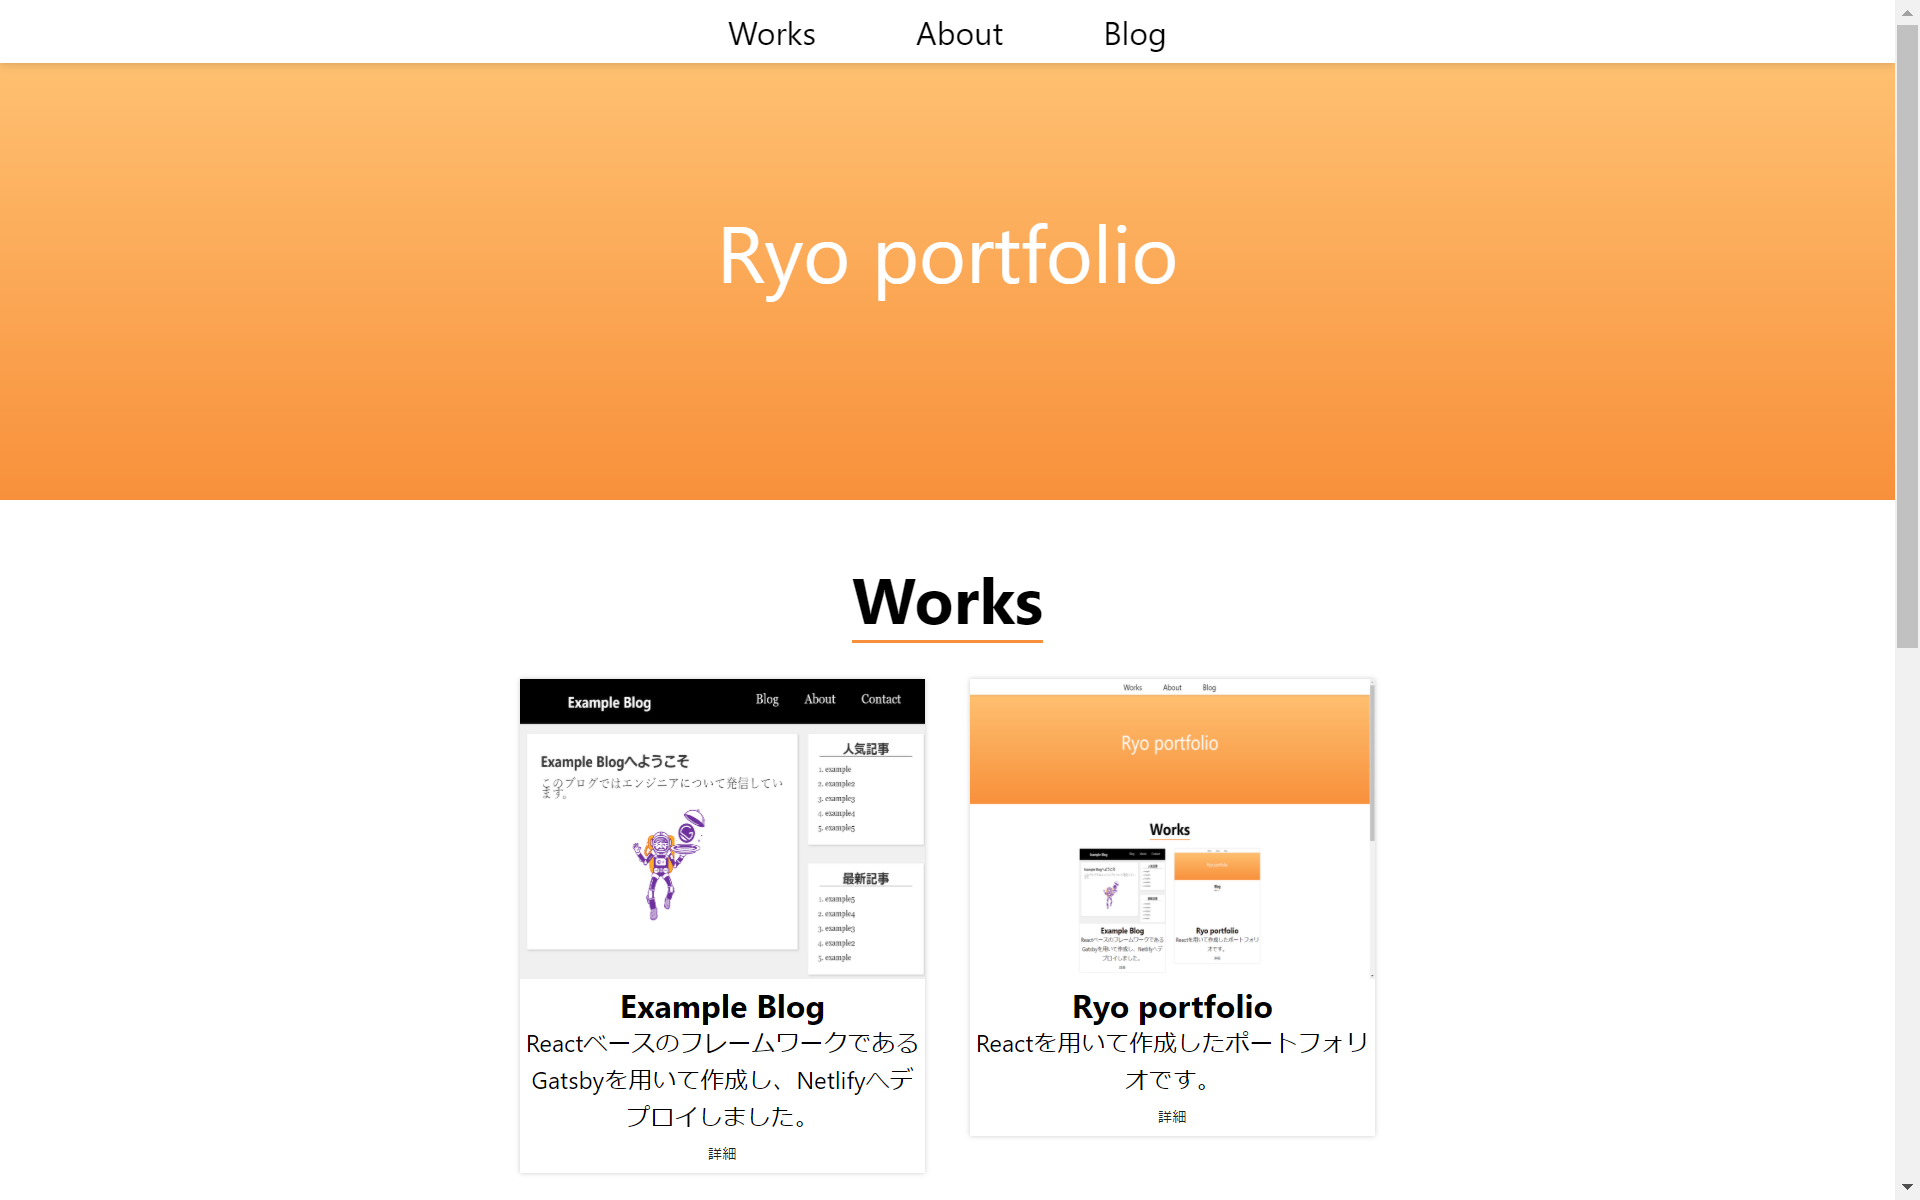
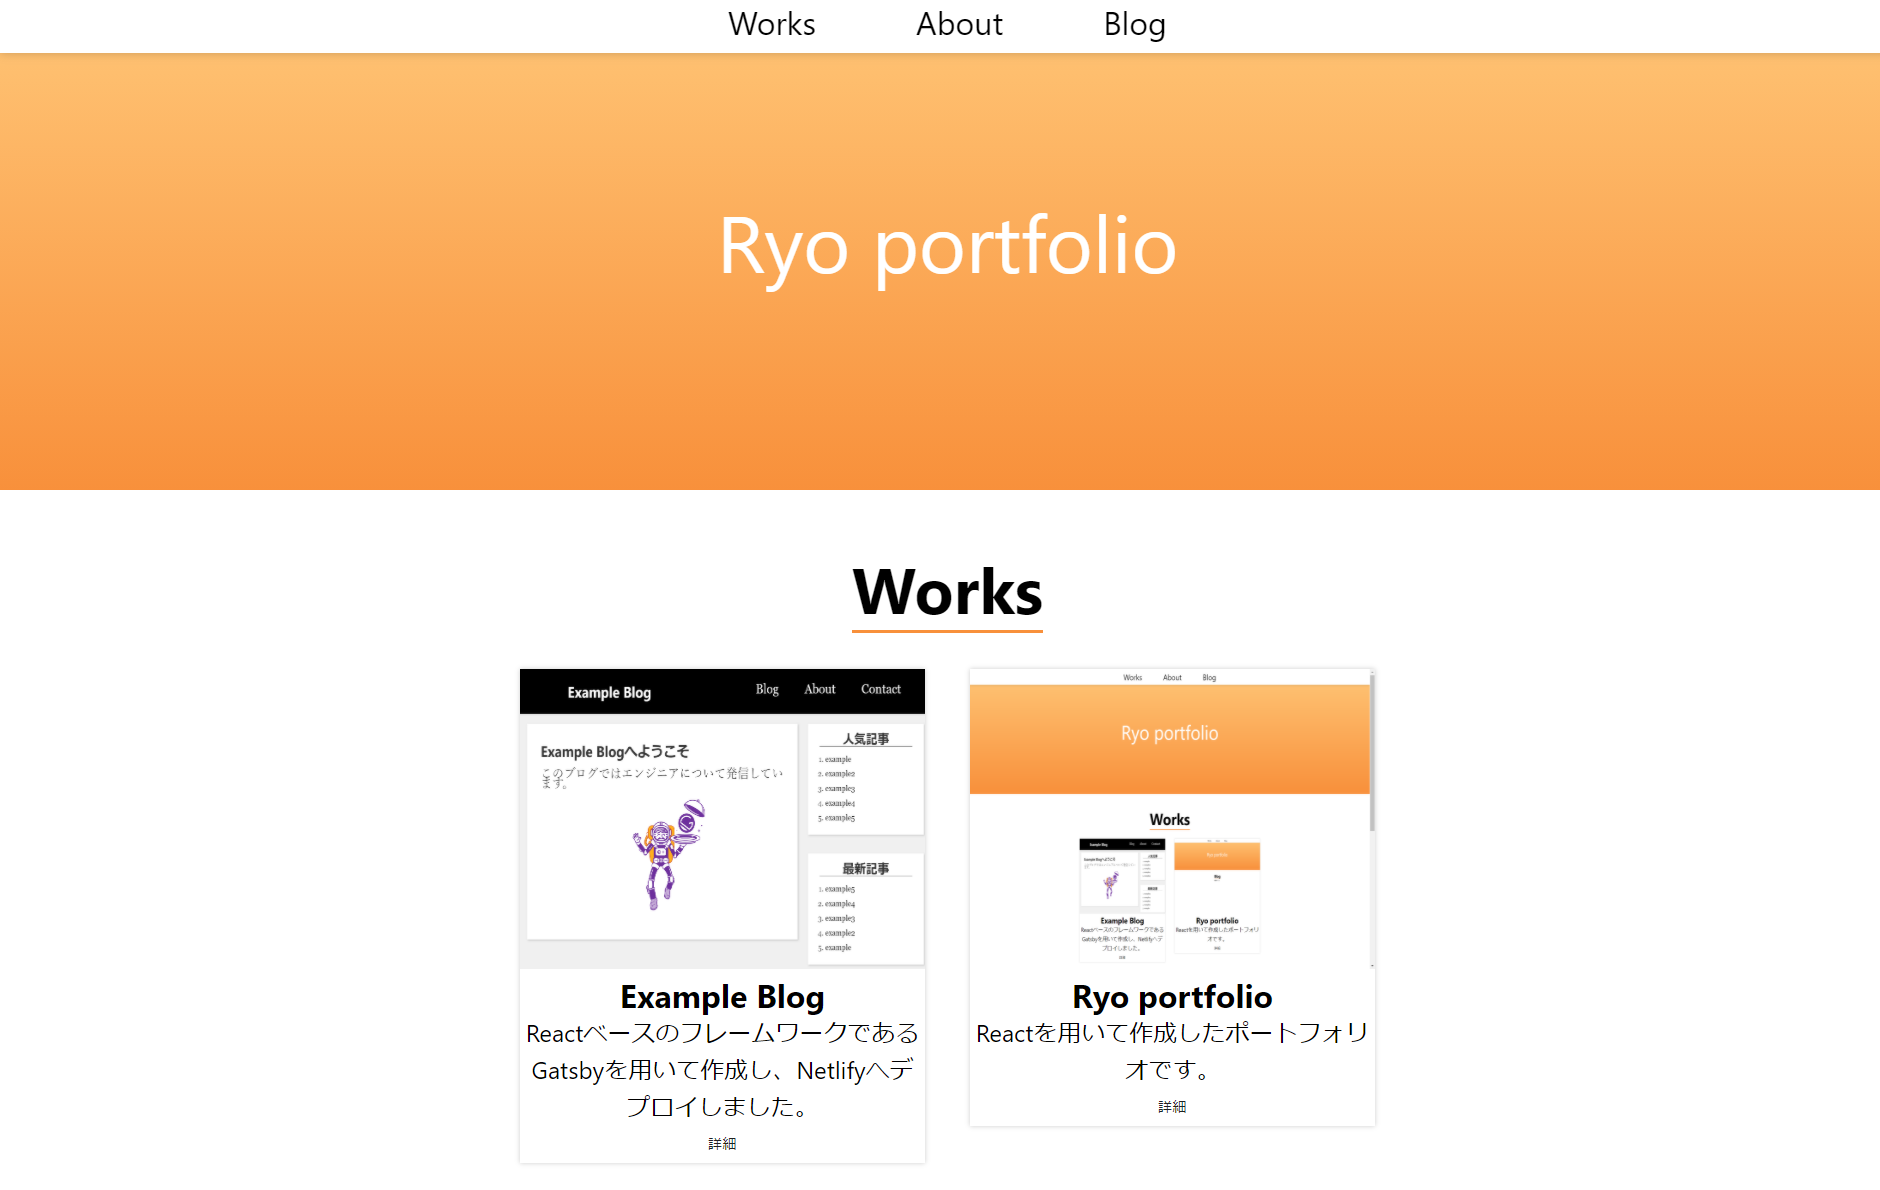
second commit

diff --git a/src/Data.js b/src/Data.js
@@ -16,10 +16,10 @@ function Data() {
         },
         {
             name:'Ryo portfolio',
-            description:'Reactを用いて作成したポートフォリオです。',
+            description:'Reactを用いて作成したポートフォリオで、Netlifyにデプロイしました。',
             image:portfolio,
-            url:'https://youthful-williams-7f4bf8.netlify.app/',
-            details:'',
+            url:'https://distracted-bassi-d1ec6e.netlify.app',
+            details:'ポートフォリオサイトをまだ持っていなかったのと、Reactの技術をより深めたいと思い作成しました。レスポンシブで白を基調としたシンプルなデザインを意識しました。',
             skill:'React'
         },
     ]

diff --git a/src/App.css b/src/App.css
@@ -125,7 +125,7 @@ p{
   min-width: 600px;
   height: 70%;
   background-color: #ffffff;
-  margin: 200px auto 0;
+  margin: 150px auto 0;
   overflow-y: scroll;
 }
 .modal-frame *{
